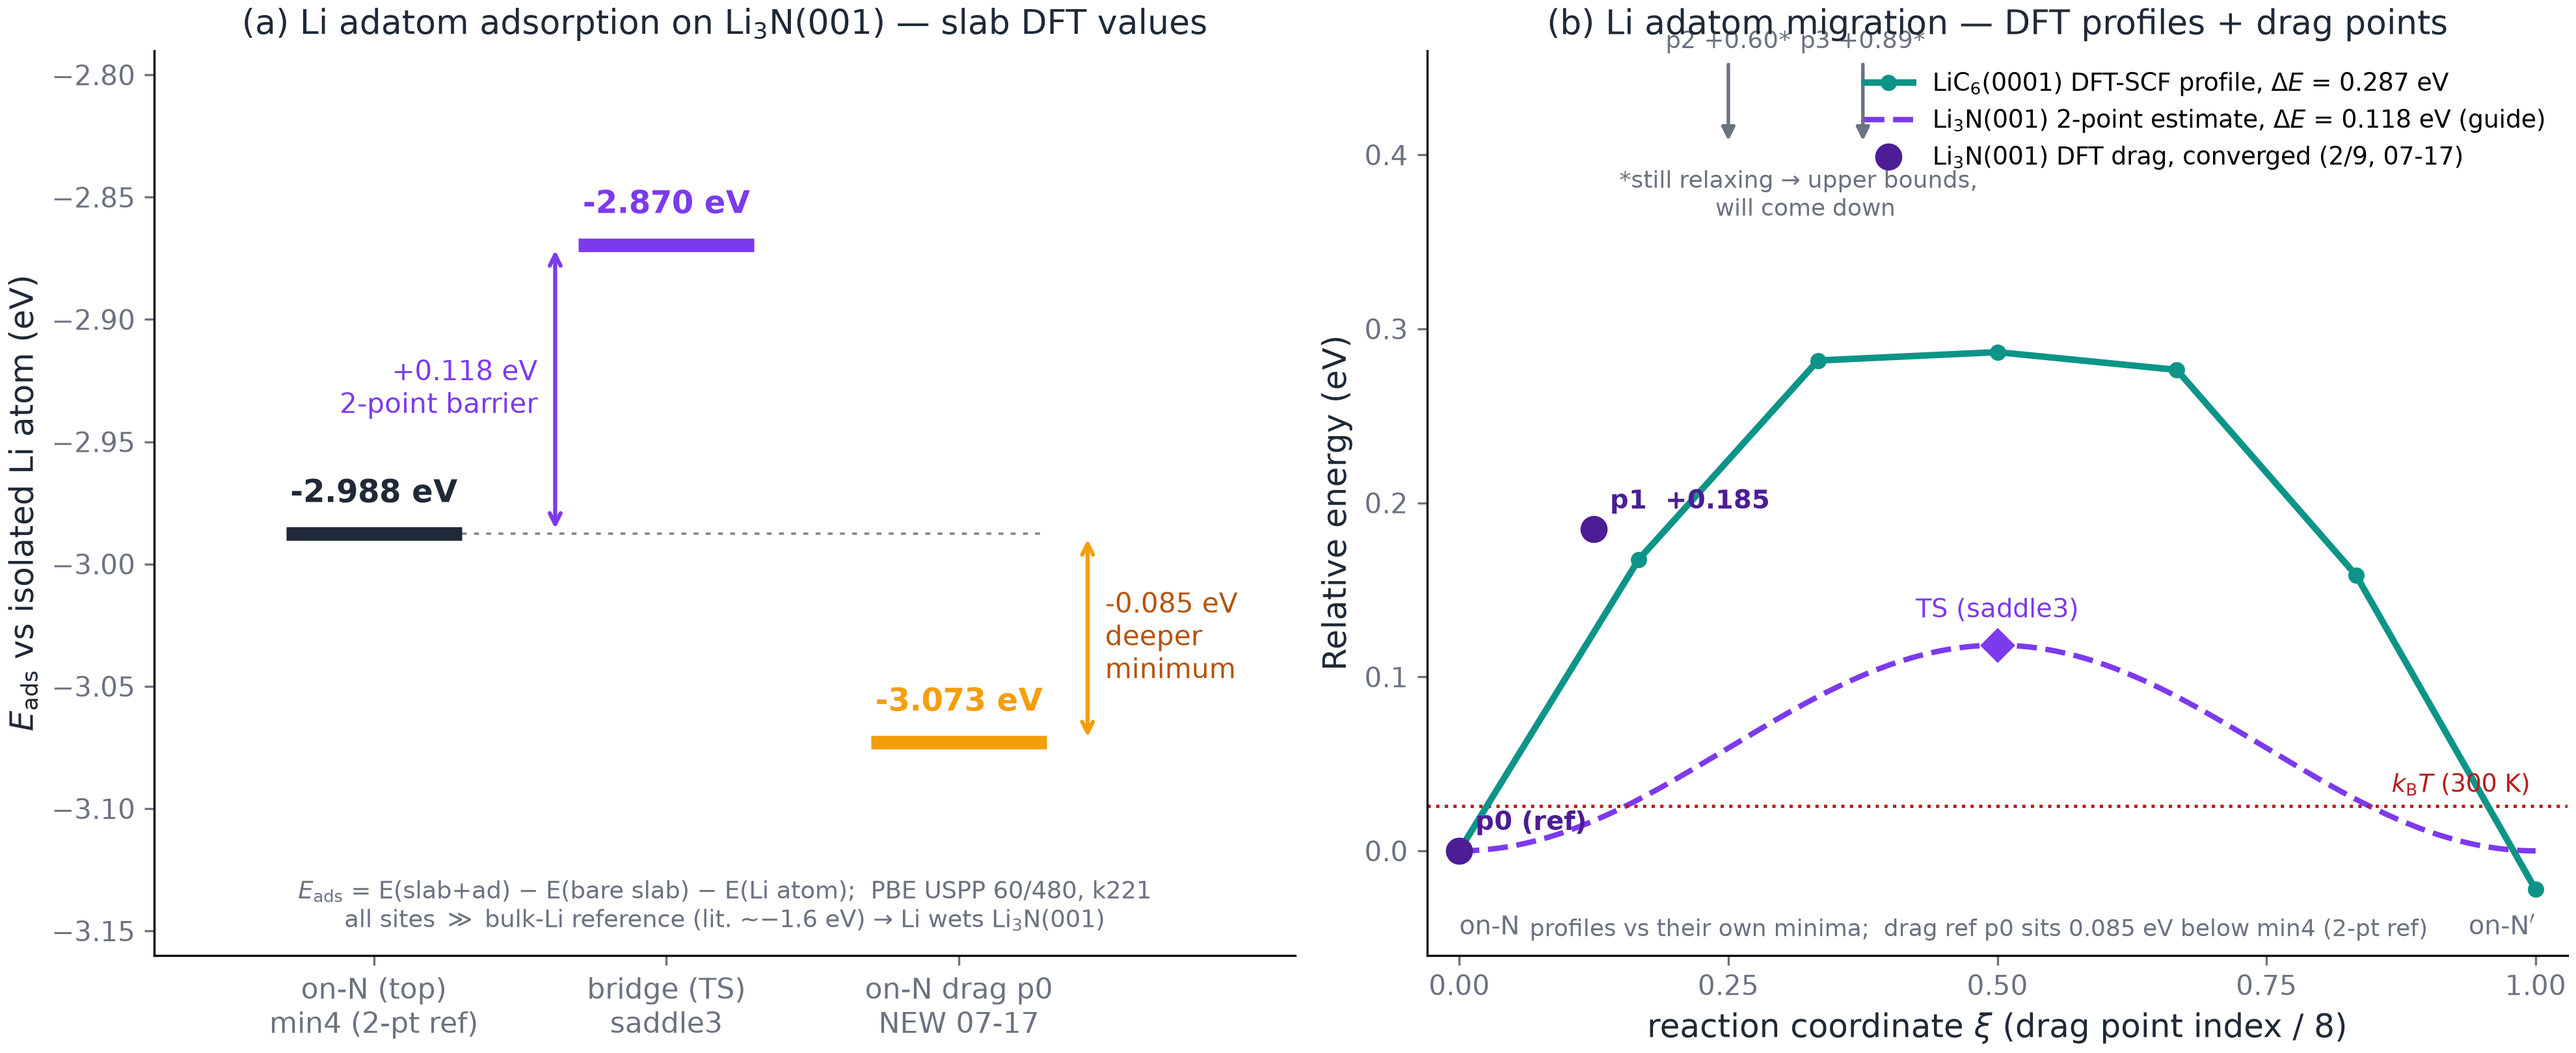
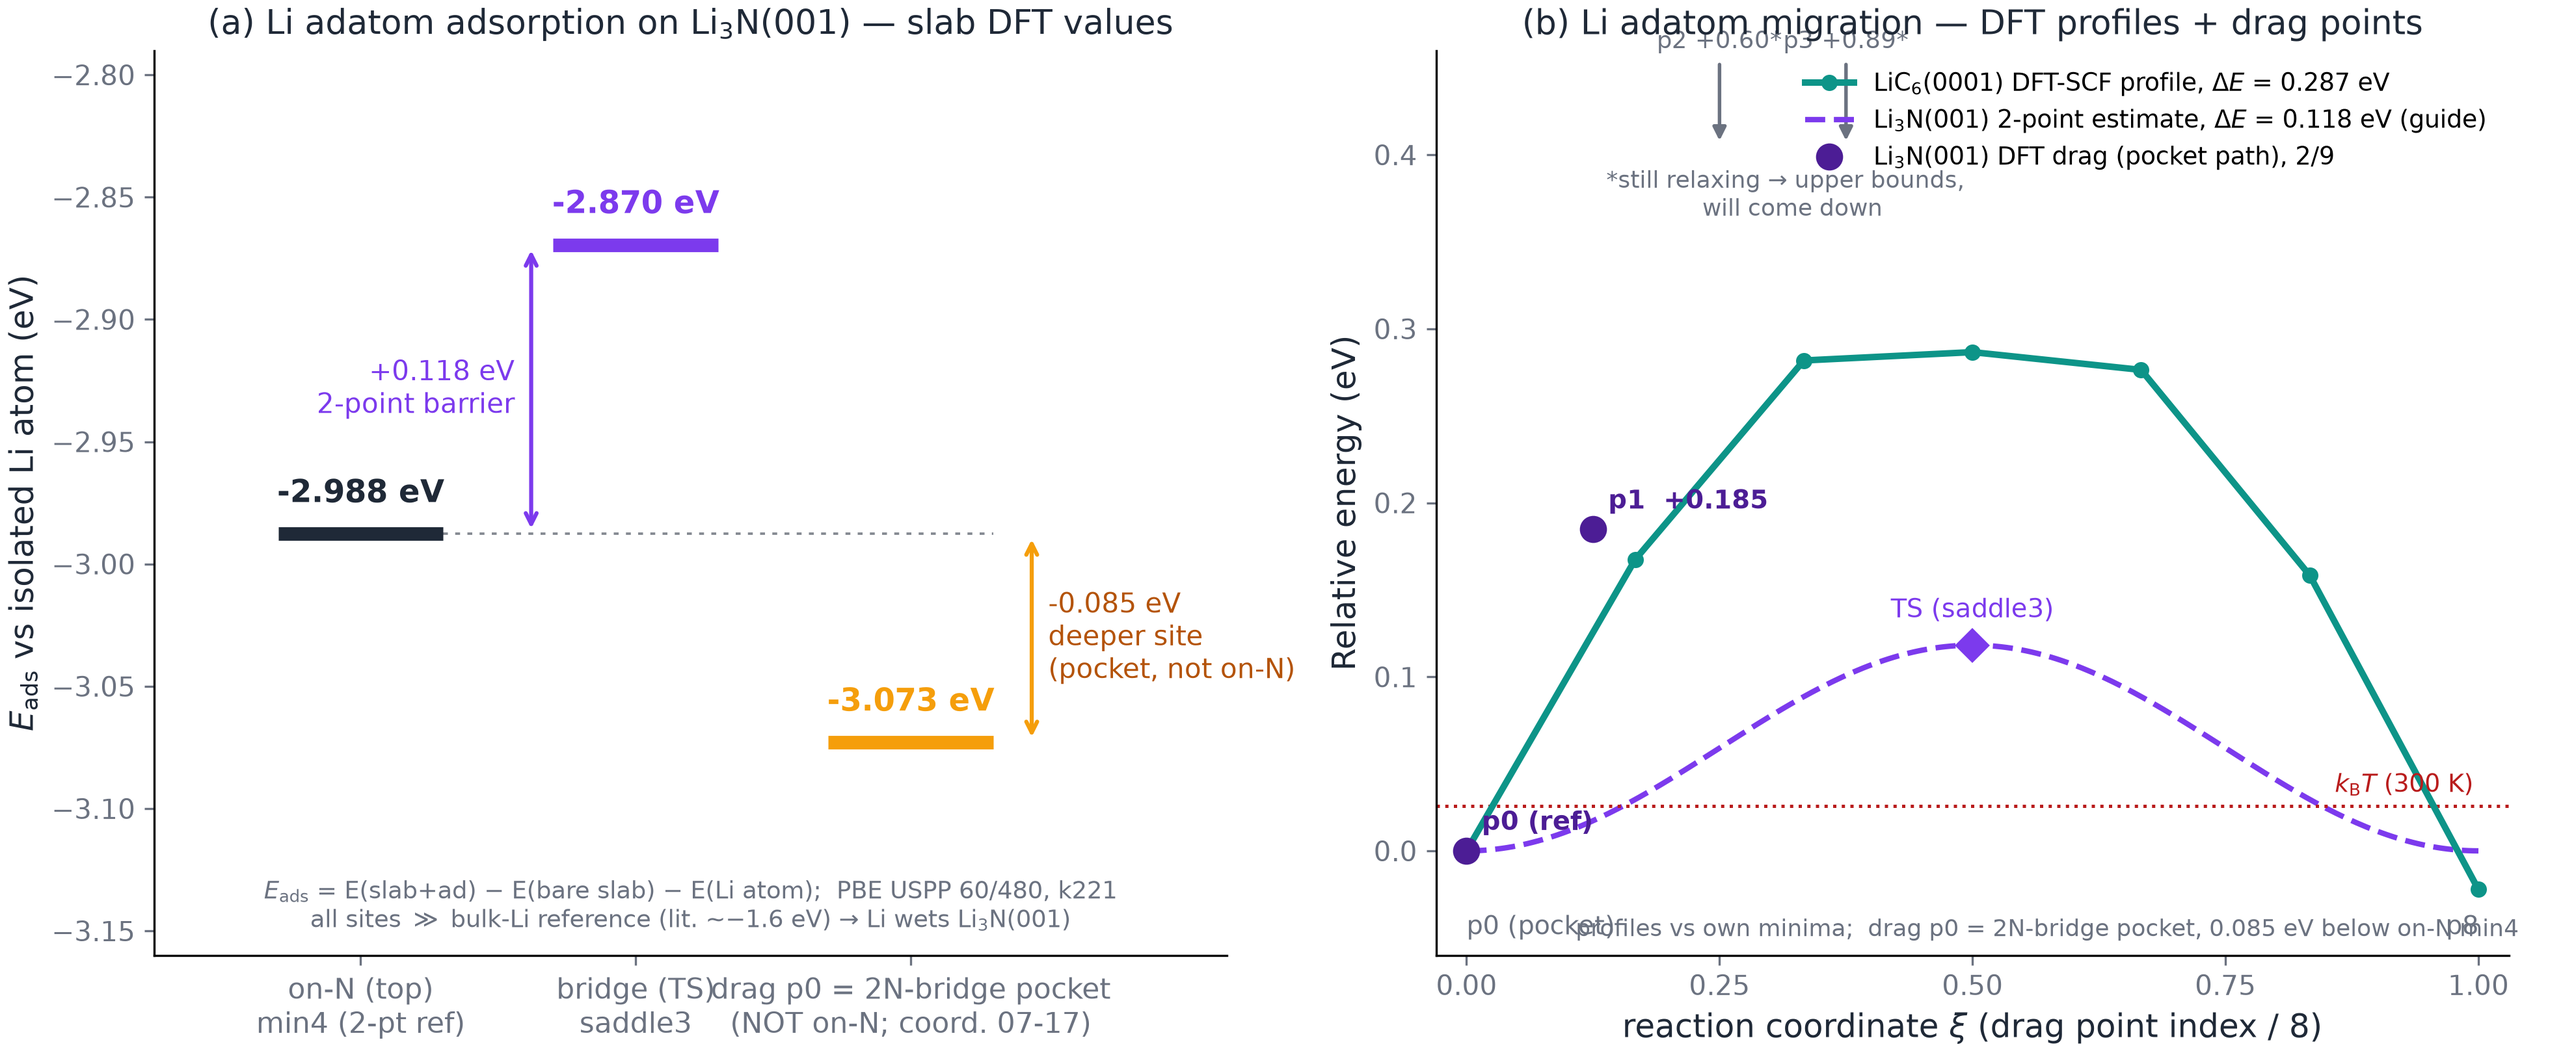
li3n: drag p0 identified as 2N-bridge pocket (NOT on-N) — coord 2xN 2.047 A + 6 Li, semi-embedded (+0.30 A above top layer); reproduces June NEB bridge-below-on-N ordering independently -> slab-setup question, 6-layer 2-point test defined; figure labels corrected
Claude-Session: https://claude.ai/code/session_01L44TWYrHkcm4PH5ihWSSCw

diff --git a/tools/figures/fig_li3n_barrier_v2.py b/tools/figures/fig_li3n_barrier_v2.py
@@ -46,7 +46,7 @@ VIOLET, TEAL, ORANGE = ELEM["P"], ELEM["Li"], "#f59e0b"
 fig, (ax, bx) = plt.subplots(1, 2, figsize=(13.2, 5.4), constrained_layout=True)
 
 # ================= (a) slab adsorption energies — level diagram =================
-labels = ["on-N (top)\nmin4 (2-pt ref)", "bridge (TS)\nsaddle3", "on-N drag p0\nNEW 07-17"]
+labels = ["on-N (top)\nmin4 (2-pt ref)", "bridge (TS)\nsaddle3", "drag p0 = 2N-bridge pocket\n(NOT on-N; coord. 07-17)"]
 vals = [EADS["onN_min4"], EADS["bridge_saddle3"], EADS["onN_dragp0"]]
 cols = [INK, VIOLET, ORANGE]
 xpos = [0, 1, 2]
@@ -70,7 +70,7 @@ xb2 = 2.44
 ax.annotate("", xy=(xb2, EADS["onN_dragp0"]), xytext=(xb2, EADS["onN_min4"]),
             arrowprops=dict(arrowstyle="<->", color=ORANGE, lw=1.5))
 ax.text(xb2 + 0.06, (EADS["onN_dragp0"] + EADS["onN_min4"]) / 2,
-        f"{EADS['onN_dragp0']-EADS['onN_min4']:+.3f} eV\ndeeper\nminimum", fontsize=10,
+        f"{EADS['onN_dragp0']-EADS['onN_min4']:+.3f} eV\ndeeper site\n(pocket, not on-N)", fontsize=10,
         color="#b45309", va="center", ha="left")
 ax.set_xticks(xpos)
 ax.set_xticklabels(labels, fontsize=10.5)
@@ -94,7 +94,7 @@ bx.plot([0.5], [BARRIER_2PT], "D", color=VIOLET, ms=8, zorder=4)
 bx.text(0.5, BARRIER_2PT + 0.016, "TS (saddle3)", ha="center", fontsize=9.5, color=VIOLET)
 # KISTI drag — converged points
 bx.plot(DRAG["xi"], DRAG["eV"], "o", color="#4c1d95", ms=9, zorder=5,
-        label="Li$_3$N(001) DFT drag, converged (2/9, 07-17)")
+        label="Li$_3$N(001) DFT drag (pocket path), 2/9")
 for x, y, t in zip(DRAG["xi"], DRAG["eV"], ["p0", "p1"]):
     bx.text(x + 0.015, y + 0.012, f"{t}  {y:+.3f}" if y else f"{t} (ref)",
             fontsize=9.5, color="#4c1d95", fontweight="bold")
@@ -115,9 +115,9 @@ bx.set_xticks([0, 0.25, 0.5, 0.75, 1.0])
 apply_axes(bx, xlabel="reaction coordinate $\\xi$ (drag point index / 8)",
            ylabel="Relative energy (eV)",
            title="(b) Li adatom migration — DFT profiles + drag points")
-bx.text(0.0, -0.048, "on-N", fontsize=9.5, color=MUT)
-bx.text(1.0, -0.048, "on-N$'$", fontsize=9.5, color=MUT, ha="right")
-bx.text(0.09, 0.015, "profiles vs their own minima;  drag ref p0 sits 0.085 eV below min4 (2-pt ref)",
+bx.text(0.0, -0.048, "p0 (pocket)", fontsize=9.5, color=MUT)
+bx.text(1.0, -0.048, "p8", fontsize=9.5, color=MUT, ha="right")
+bx.text(0.13, 0.015, "profiles vs own minima;  drag p0 = 2N-bridge pocket, 0.085 eV below on-N min4",
         transform=bx.transAxes, fontsize=8.6, color=MUT, va="bottom", ha="left")
 bx.legend(loc="upper right", fontsize=9, frameon=False)
 
@@ -133,7 +133,7 @@ csvp = REPO / "db/properties/li3n_barrier_fig_origin.csv"
 with open(csvp, "w", newline="") as f:
     w = csv.writer(f)
     w.writerow(["series", "x_xi_or_site", "energy_eV", "status"])
-    for lbl, v in zip(["onN_min4", "bridge_saddle3", "onN_drag_p0"], vals):
+    for lbl, v in zip(["onN_min4", "bridge_saddle3", "dragp0_2Nbridge_pocket"], vals):
         w.writerow(["Eads_slab_abs", lbl, f"{v:.4f}", "converged"])
     for x, y in zip(LIC6_X, LIC6_Y):
         w.writerow(["LiC6_dft_scf_profile", f"{x:.4f}", f"{y:.4f}", "converged"])
